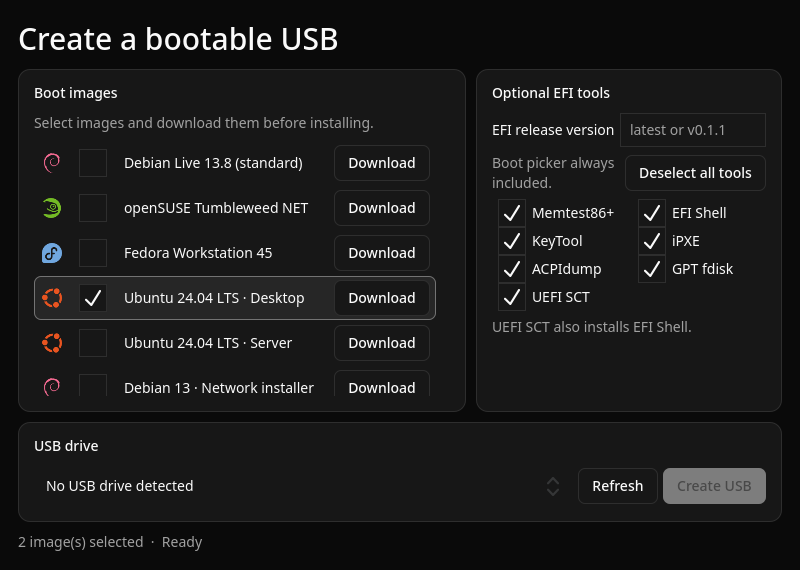
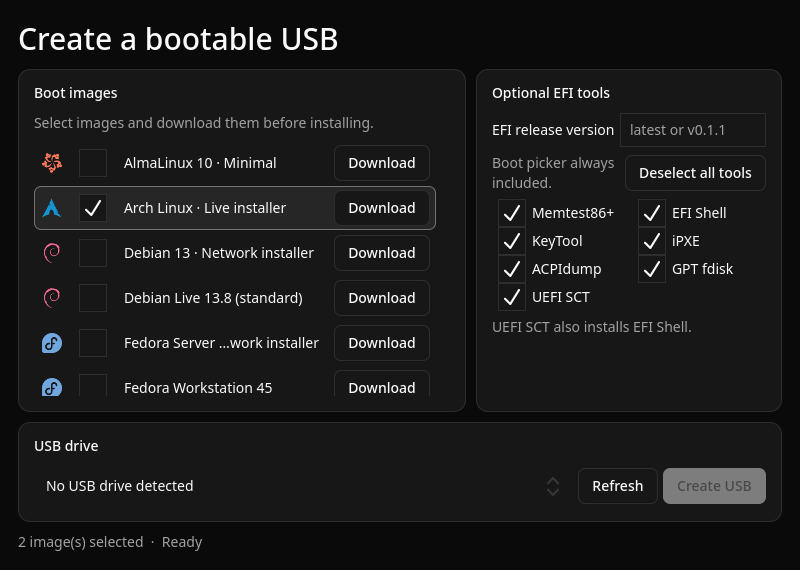
Sort installer boot images alphabetically

diff --git a/installer/src/ui.qml b/installer/src/ui.qml
@@ -121,11 +121,14 @@ QQC2.ApplicationWindow {
                         clip: true
                         boundsBehavior: Flickable.StopAtBounds
                         QQC2.ScrollBar.vertical: QQC2.ScrollBar {}
-                        model: installer.iso_names.split("\n")
+                        model: installer.iso_names.split("\n").map((name, index) => ({
+                                    name: name,
+                                    sourceIndex: index
+                                })).sort((a, b) => a.name.localeCompare(b.name))
                         spacing: 1
                         delegate: Rectangle {
-                            required property int index
-                            required property string modelData
+                            required property var modelData
+                            readonly property int sourceIndex: modelData.sourceIndex
                             width: imageList.width - 14
                             height: 44
                             radius: 7
@@ -140,7 +143,7 @@ QQC2.ApplicationWindow {
                                 anchors.rightMargin: 6
                                 spacing: 8
                                 Image {
-                                    source: "qrc:/iso-icons/" + installer.iso_icons.split("\n")[index] + ".png"
+                                    source: "qrc:/iso-icons/" + installer.iso_icons.split("\n")[sourceIndex] + ".png"
                                     Layout.preferredWidth: 20
                                     Layout.preferredHeight: 20
                                     fillMode: Image.PreserveAspectFit
@@ -148,18 +151,18 @@ QQC2.ApplicationWindow {
                                 }
                                 QQC2.CheckBox {
                                     id: isoCheck
-                                    checked: window.selectedIsoIndexes.split(",").indexOf(String(index)) >= 0
-                                    onToggled: window.toggleIso(index, checked)
-                                    Accessible.name: "Include " + modelData
+                                    checked: window.selectedIsoIndexes.split(",").indexOf(String(sourceIndex)) >= 0
+                                    onToggled: window.toggleIso(sourceIndex, checked)
+                                    Accessible.name: "Include " + modelData.name
                                 }
                                 QQC2.Label {
-                                    text: modelData
+                                    text: modelData.name
                                     Layout.fillWidth: true
                                     elide: Text.ElideMiddle
                                 }
                                 Button {
                                     text: "Download"
-                                    onClicked: installer.download_iso(index)
+                                    onClicked: installer.download_iso(sourceIndex)
                                 }
                             }
                         }
